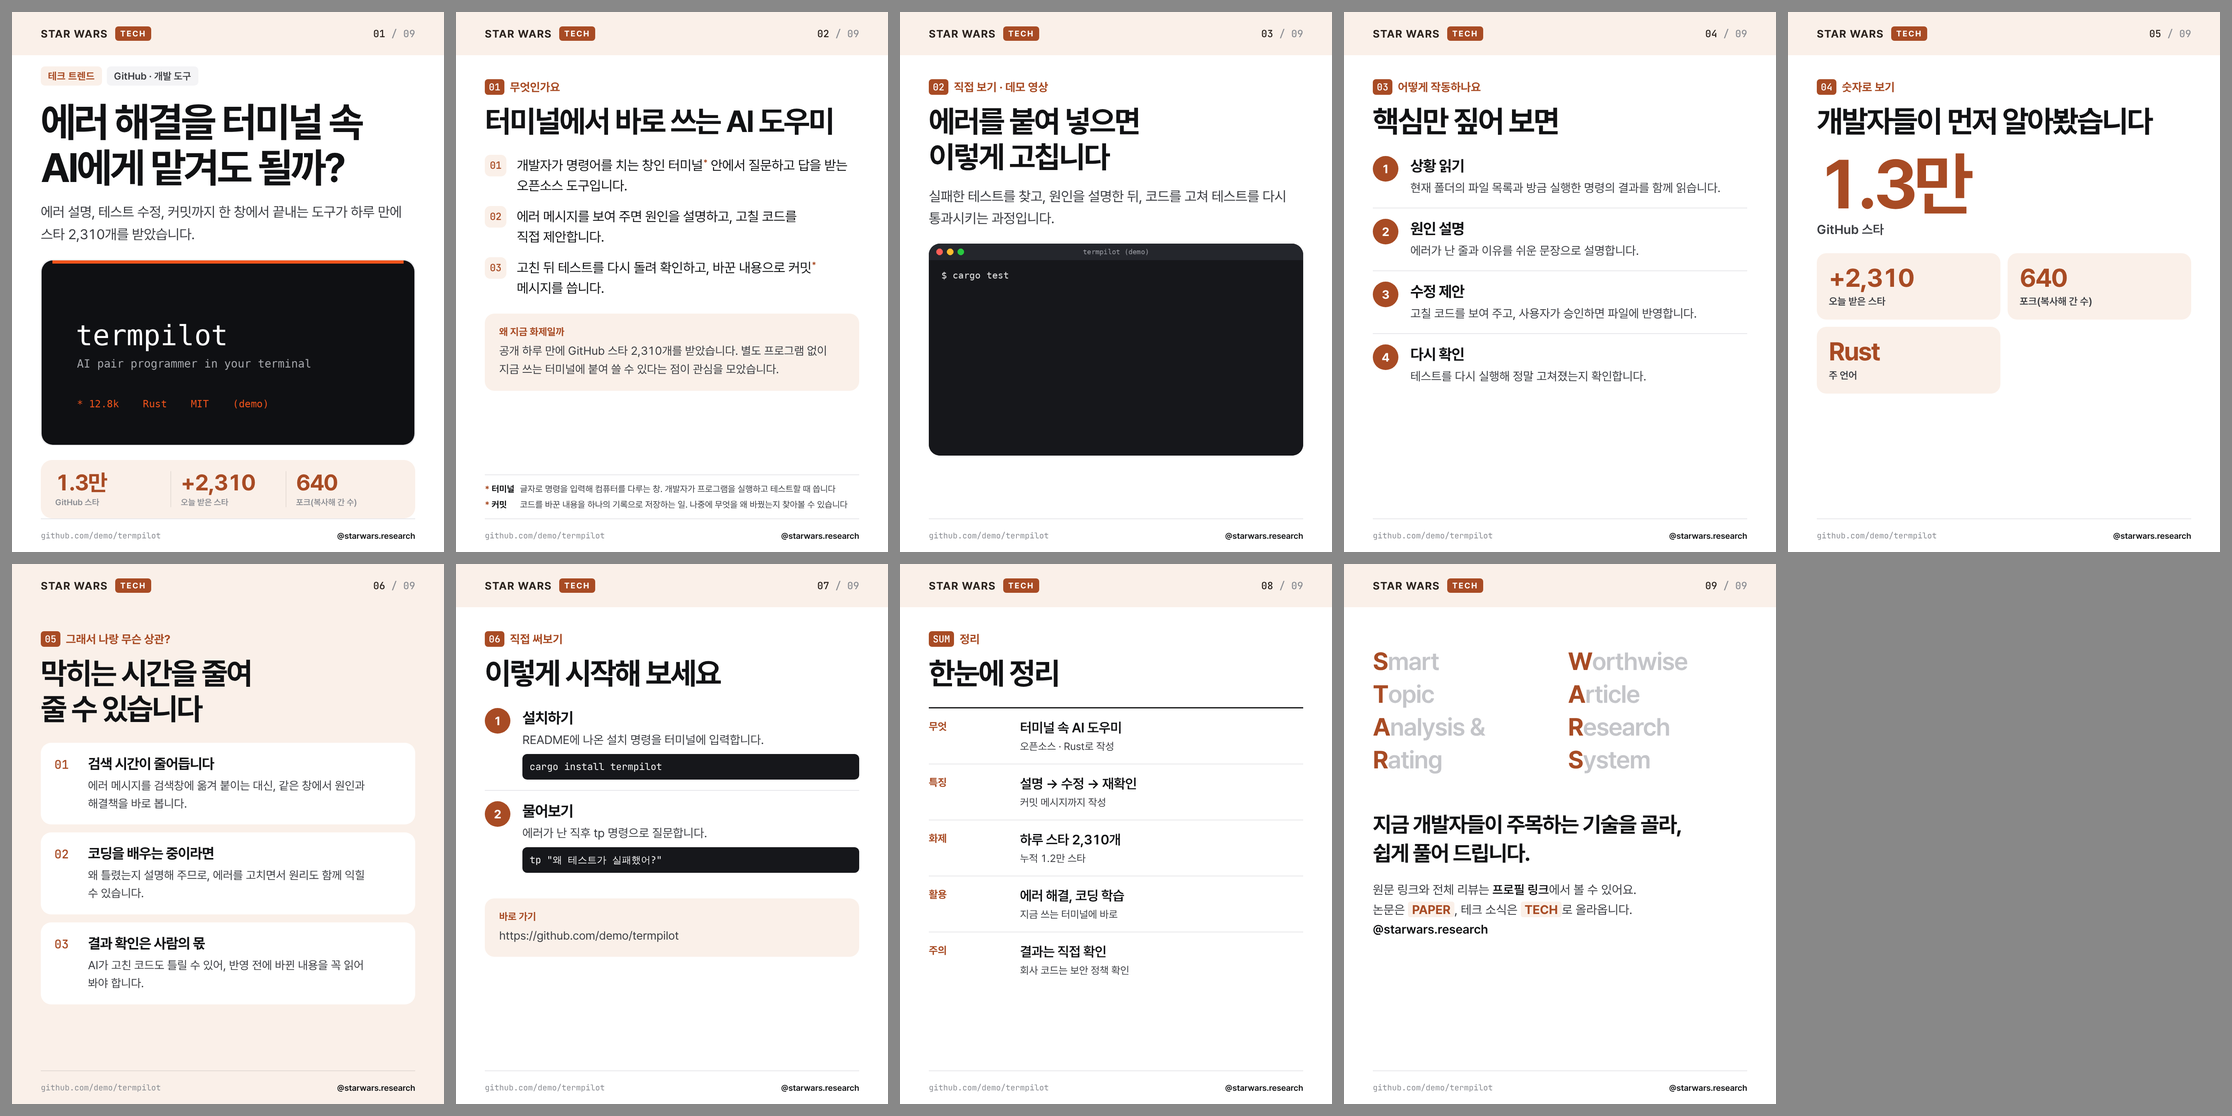
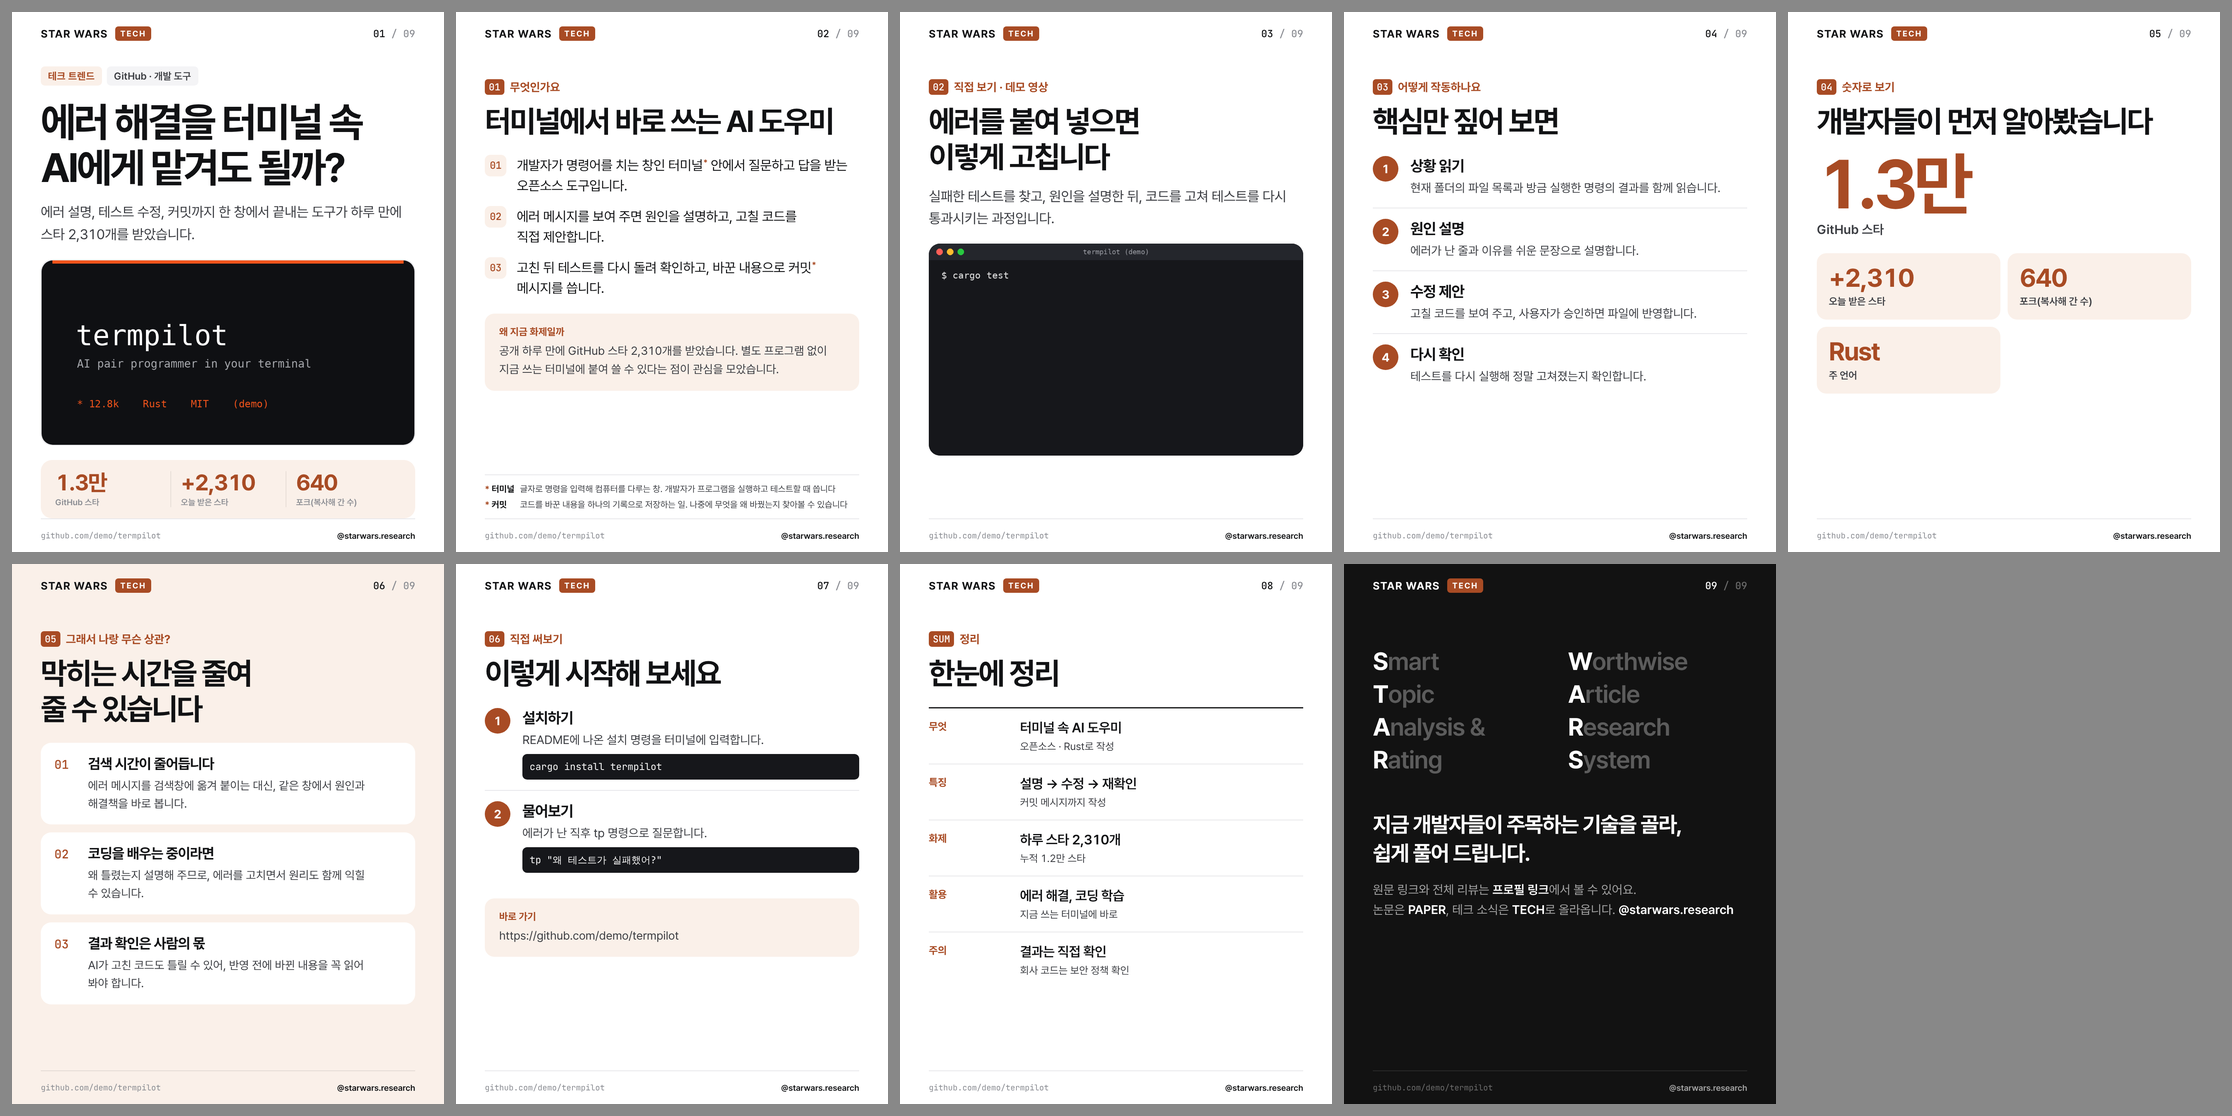
Cards: plain white header, white-on-black closing slide
Claude-Session: https://claude.ai/code/session_012bj7GXVabYbePdzsSxXok8

Changed region(s): [[0.5874, 0.4875, 0.8038, 1.0]]

diff --git a/paperagent/templates/cards/cards.html b/paperagent/templates/cards/cards.html
@@ -40,13 +40,13 @@ p, li, span, b { text-wrap: pretty; }
 .slide { --k: 1; width: 1080px; height: 1350px; position: relative; overflow: hidden; background: #fff; display: flex; flex-direction: column; }
 
 /* the colour block on top of every content slide */
-/* the header: a light tint of the category colour */
-.band { flex: none; height: 108px; padding: 0 72px; background: var(--soft); color: var(--ink); display: flex; align-items: center;
+/* the header: logo, category label and page number on the plain white slide */
+.band { flex: none; height: 108px; padding: 0 72px; background: transparent; color: var(--ink); display: flex; align-items: center;
         justify-content: space-between; }
 .brand { display: flex; align-items: center; gap: 18px; }
-.brand b { font-size: 27px; font-weight: 700; letter-spacing: .06em; color: var(--deep); }
+.brand b { font-size: 27px; font-weight: 700; letter-spacing: .06em; color: var(--ink); }
 .brand span { font-size: 20px; font-weight: 700; letter-spacing: .14em; padding: 6px 13px; border-radius: 8px; background: var(--c); color: #fff; }
-.pg { font-family: "Mono", monospace; font-size: 25px; font-weight: 500; color: var(--deep); }
+.pg { font-family: "Mono", monospace; font-size: 25px; font-weight: 500; color: var(--ink); }
 .pg i { font-style: normal; color: var(--mute); }
 
 .main { position: relative; flex: 1; min-height: 0; display: flex; flex-direction: column; overflow: hidden; padding: calc(60px * var(--k)) 72px 0; }
@@ -205,15 +205,20 @@ h2 { flex: none; margin-top: calc(22px * var(--k)); font-size: calc(76px * var(-
 .foot b::before { content: "* "; color: var(--c); }
 
 /* ---------- outro ---------- */
-.outro { background: #fff; color: var(--ink); }
-.outro .acro b { color: var(--c); }
+/* the closing slide: white on black */
+.outro { background: #121212; color: #fff; }
+.outro .brand b, .outro .pg { color: #fff; }
+.outro .pg i { color: #6b6b6b; }
+.outro .acro b { color: #fff; }
 .acro { margin: 96px 72px 0; display: grid; grid-template-columns: 1fr 1fr; gap: 4px 40px; }
-.acro div { font-size: 62px; font-weight: 600; letter-spacing: -0.03em; line-height: 1.26; color: #c4c5c9; white-space: nowrap; }
+.acro div { font-size: 62px; font-weight: 600; letter-spacing: -0.03em; line-height: 1.26; color: #5c5c5c; white-space: nowrap; }
 .acro b { color: #fff; font-weight: 700; }
 .outro .claim { margin: 88px 72px 0; font-size: 54px; line-height: 1.32; font-weight: 700; letter-spacing: -0.035em; }
-.outro .cta { margin: 30px 72px 0; font-size: 31px; line-height: 1.6; color: var(--body); }
-.outro .cta b { color: var(--ink); font-weight: 600; }
-.outro .cta em { font-style: normal; color: var(--c); background: var(--soft); padding: 1px 10px; border-radius: 6px; font-weight: 700; }
+.outro .cta { margin: 30px 72px 0; font-size: 31px; line-height: 1.6; color: #a3a3a3; }
+.outro .cta b { color: #fff; font-weight: 600; }
+.outro .cta em { font-style: normal; color: #fff; font-weight: 600; }
+.outro .bottom { border-top-color: #2a2a2a; color: #6b6b6b; }
+.outro .bottom b { color: #a3a3a3; }
 
 /* while measuring, figures are out and the notes sit right under the text */
 .measuring .figure { display: none; }
